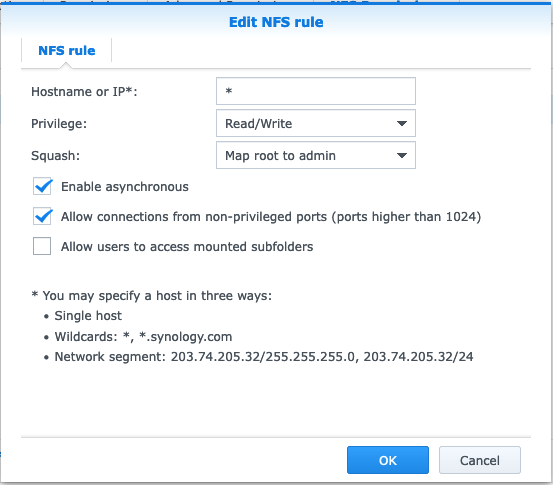
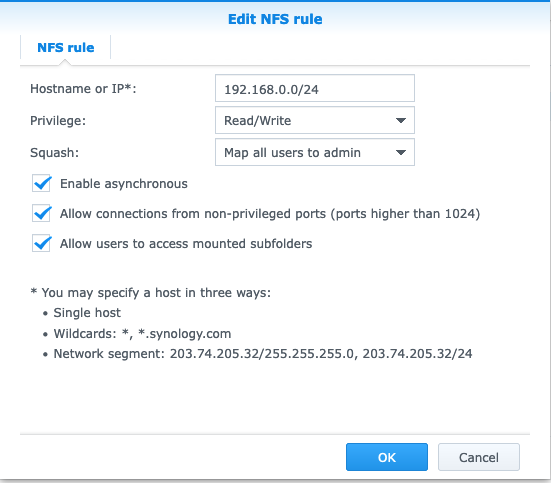
🛠 NEW: gitops with gimlet

diff --git a/blogs/how-to-bake-an-ortelius-pi-part02.md b/blogs/how-to-bake-an-ortelius-pi-part02.md
@@ -186,6 +186,9 @@ max-inflight-requests 256
 
 ![synology file services](images/how-to-bake-an-ortelius-pi/part02/14-syno-file-share-nfs-config.png)
 
+- This `192.168.0.0/24` indicates that only the devices on this subnet can access NFS
+- You would need to change it to your network subnet which you can get from your DHCP configuration
+
 - Congrats you just configured the Synology for NFS!
 
 ---------------------------------------------------------------------------------------------------------------
